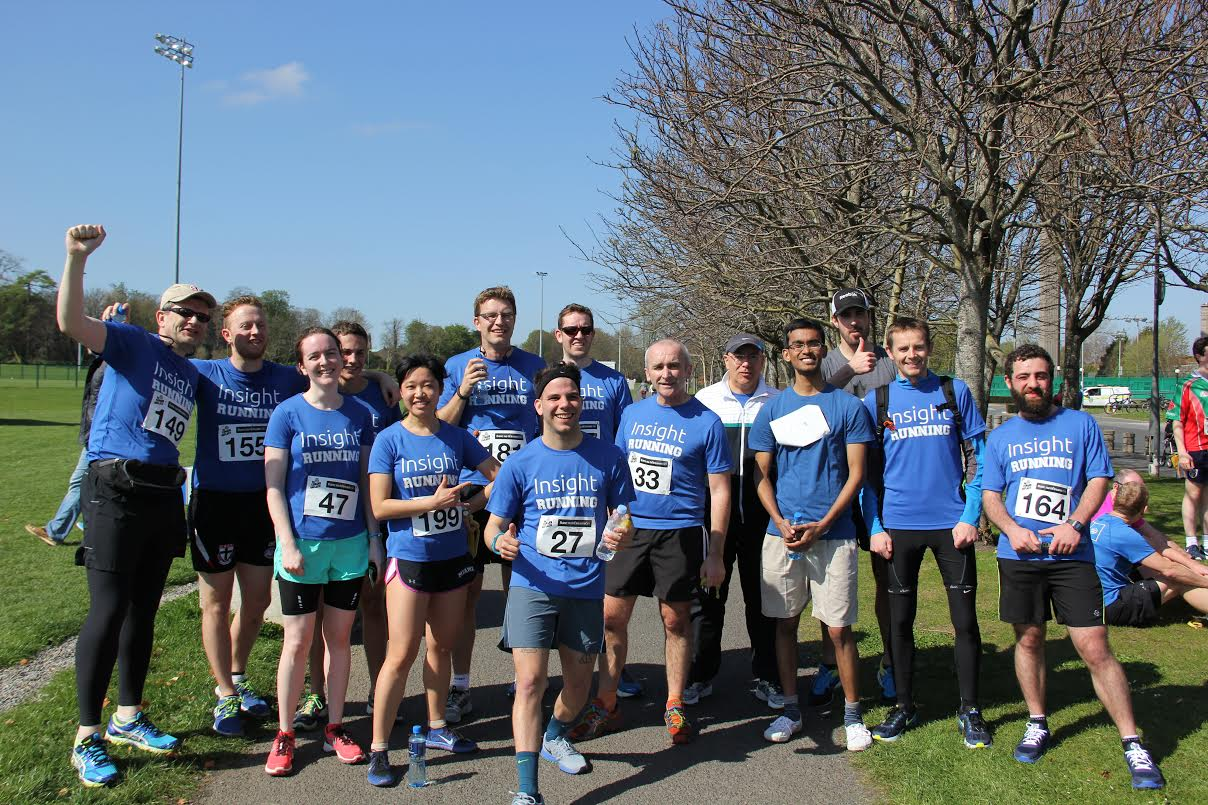
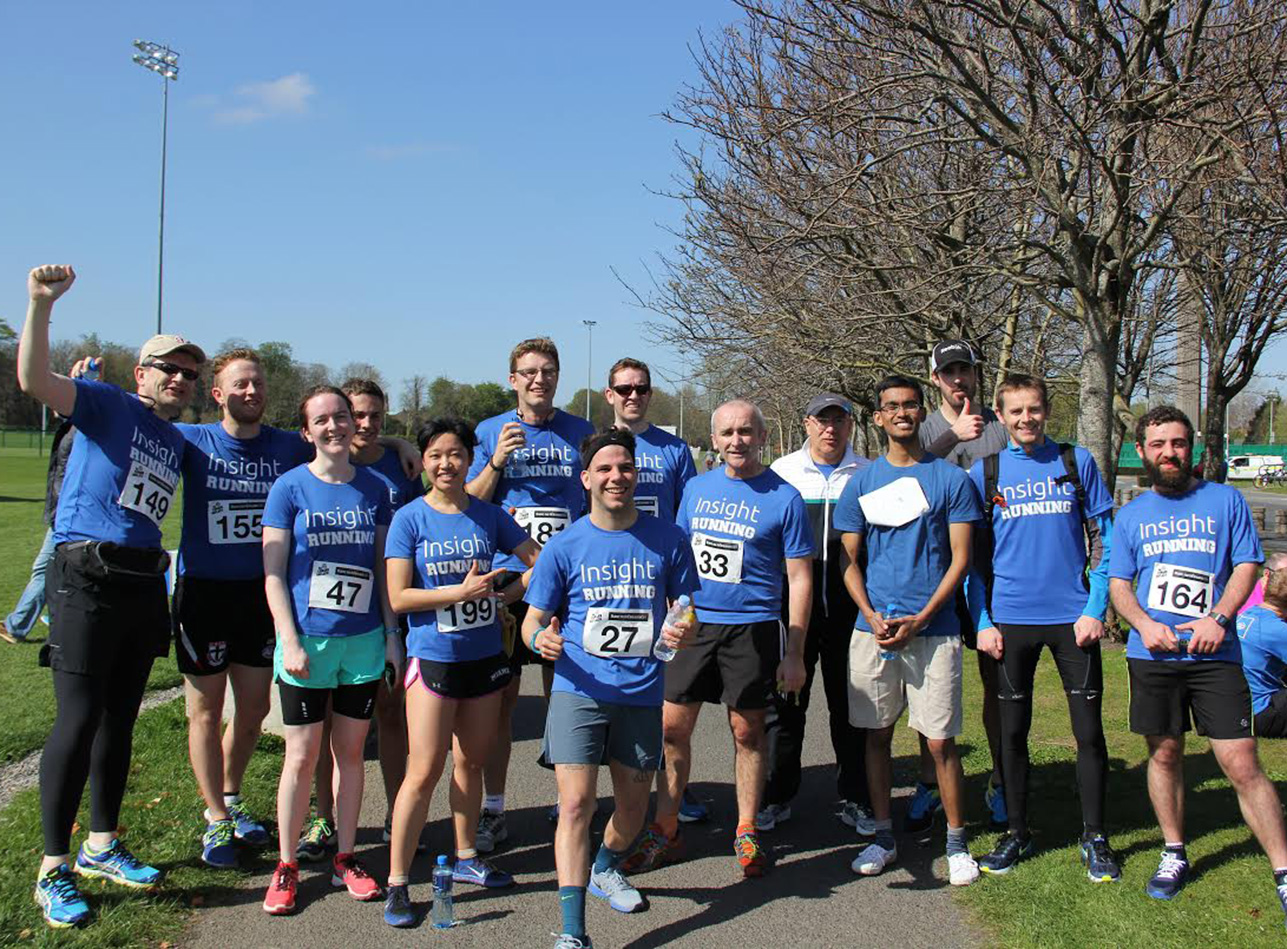
Replace carousel images with resized images

diff --git a/life-at-insight.html b/life-at-insight.html
@@ -56,19 +56,19 @@
 							</ol>
 							<div class="carousel-inner">
 								<div class="carousel-item active">
-									<img class="d-block w-100" src="img/0708_Belfield_07b.jpg" alt="ucd belfield campus">
+									<img class="d-block w-100" src="img/a_0708_Belfield_07b.jpg" alt="ucd belfield campus">
 								</div>
 								<div class="carousel-item">
-									<img class="d-block w-100" src="img/kitchen.jpeg" alt="ucd insight kitchen">
+									<img class="d-block w-100" src="img/a_IMG_0213.jpg" alt="ucd insight kitchen">
 								</div>
 								<div class="carousel-item">
-									<img class="d-block w-100" src="img/office1.png" alt="ucd insight office">
+									<img class="d-block w-100" src="img/a_IMG_1057.jpg" alt="ucd insight office">
 								</div>
 								<div class="carousel-item">
-									<img class="d-block w-100" src="img/office2.png" alt="ucd insight office">
+									<img class="d-block w-100" src="img/a_IMG_1060.jpg" alt="ucd insight office">
 								</div>
 								<div class="carousel-item">
-									<img class="d-block w-100" src="img/busy_stairs.jpg" alt="ucd science busy stairs">
+									<img class="d-block w-100" src="img/a_1401_Campus_0067a.jpg" alt="ucd science busy stairs">
 								</div>
 
 							</div>
@@ -92,19 +92,19 @@
 							</ol>
 							<div class="carousel-inner">
 								<div class="carousel-item active">
-									<img class="d-block w-100" src="img/IMG_2995.jpeg" alt="ucd belfield campus">
+									<img class="d-block w-100" src="img/IMG_2995.jpg" alt="ucd belfield campus">
 								</div>
 								<div class="carousel-item">
-									<img class="d-block w-100" src="img/IMG_3348.jpeg" alt="ucd insight kitchen">
+									<img class="d-block w-100" src="img/IMG_3348.jpg" alt="ucd insight kitchen">
 								</div>
 								<div class="carousel-item">
-									<img class="d-block w-100" src="img/insight43.jpeg" alt="ucd insight office">
+									<img class="d-block w-100" src="img/insight43.jpg" alt="ucd insight office">
 								</div>
 								<div class="carousel-item">
-									<img class="d-block w-100" src="img/insight44.jpeg" alt="ucd insight office">
+									<img class="d-block w-100" src="img/insight44.jpg" alt="ucd insight office">
 								</div>
 								<div class="carousel-item">
-									<img class="d-block w-100" src="img/insight_running_group.jpg" alt="ucd science busy stairs">
+									<img class="d-block w-100" src="img/insight_running_group.jpg" alt="insight ucd running group">
 								</div>
 
 							</div>
@@ -132,8 +132,7 @@
 								<p>
 									<i class="fa fa-2x fa-quote-left pr-3" style="color:#0e6a6a;"></i>Regarding Insight, the most important factor I've noticed is the quality as well as the global recognition. The best example, when I got back to Sri Lanka due to Covid I had a chat with an unknown party who was involved with research on early primates with Smithsonian Channel, to my surprise she knew about Insight and mentioned they have supplied some datasets to Insight at some point. So definitely it is recognised with researchers not only within the EU, but GLOBALLY!
 								</p>
-								<h4 class="text-right">Lovely Person 1</h4>
-								<h6 class="occupation my-3 text-right">PhD student</h6>
+								<h4 class="text-right">Insight UCD PhD student</h4>
 							</div>
 						</div>
 						<!--First slide-->
@@ -144,8 +143,7 @@
 								<p><br>
 									<i class="fa fa-2x fa-quote-left pr-3" style="color:#0e6a6a;"></i>Insight has created a great social and working environment for staff and students. Insight provides opportunities for students to gain valuable work experience in Industry through Insight collaboration with Industry partners. Insight has delivered data analytics research in modelling the Covid 19 epidemic and actively reporting the findings to the Government.
 								</p>
-								<h4 class="text-right">Lovely Person 2</h4>
-								<h6 class="occupation my-3 text-right">PhD student</h6><br>
+								<h4 class="text-right">Insight UCD PhD student</h4>
 							</div>
 						</div>
 						<!--Second slide-->
@@ -157,7 +155,6 @@
 									<i class="fa fa-2x fa-quote-left pr-3" style="color:#0e6a6a;"></i>I know it will seem a bit over the top to say this but my friends and colleagues in Insight are like my second family. When you are far from home it can be difficult to find your feet, feel part of work and community. I have always felt at home in Insight and I have always felt that I was appreciated and belonged.
 								</p>
 								<h4 class="text-right">Insight UCD PhD student</h4>
-								<h6 class="occupation my-3 text-right"></h6><br>
 							</div>
 						</div>
 						<!--Third slide-->
@@ -275,6 +272,4 @@
 	<script type="text/javascript" src="js/bootstrap.min.js"></script>
 	<!-- MDB core JavaScript -->
 	<script type="text/javascript" src="js/mdb.min.js"></script>
-</body>
-
-</html>
+</body></html>
